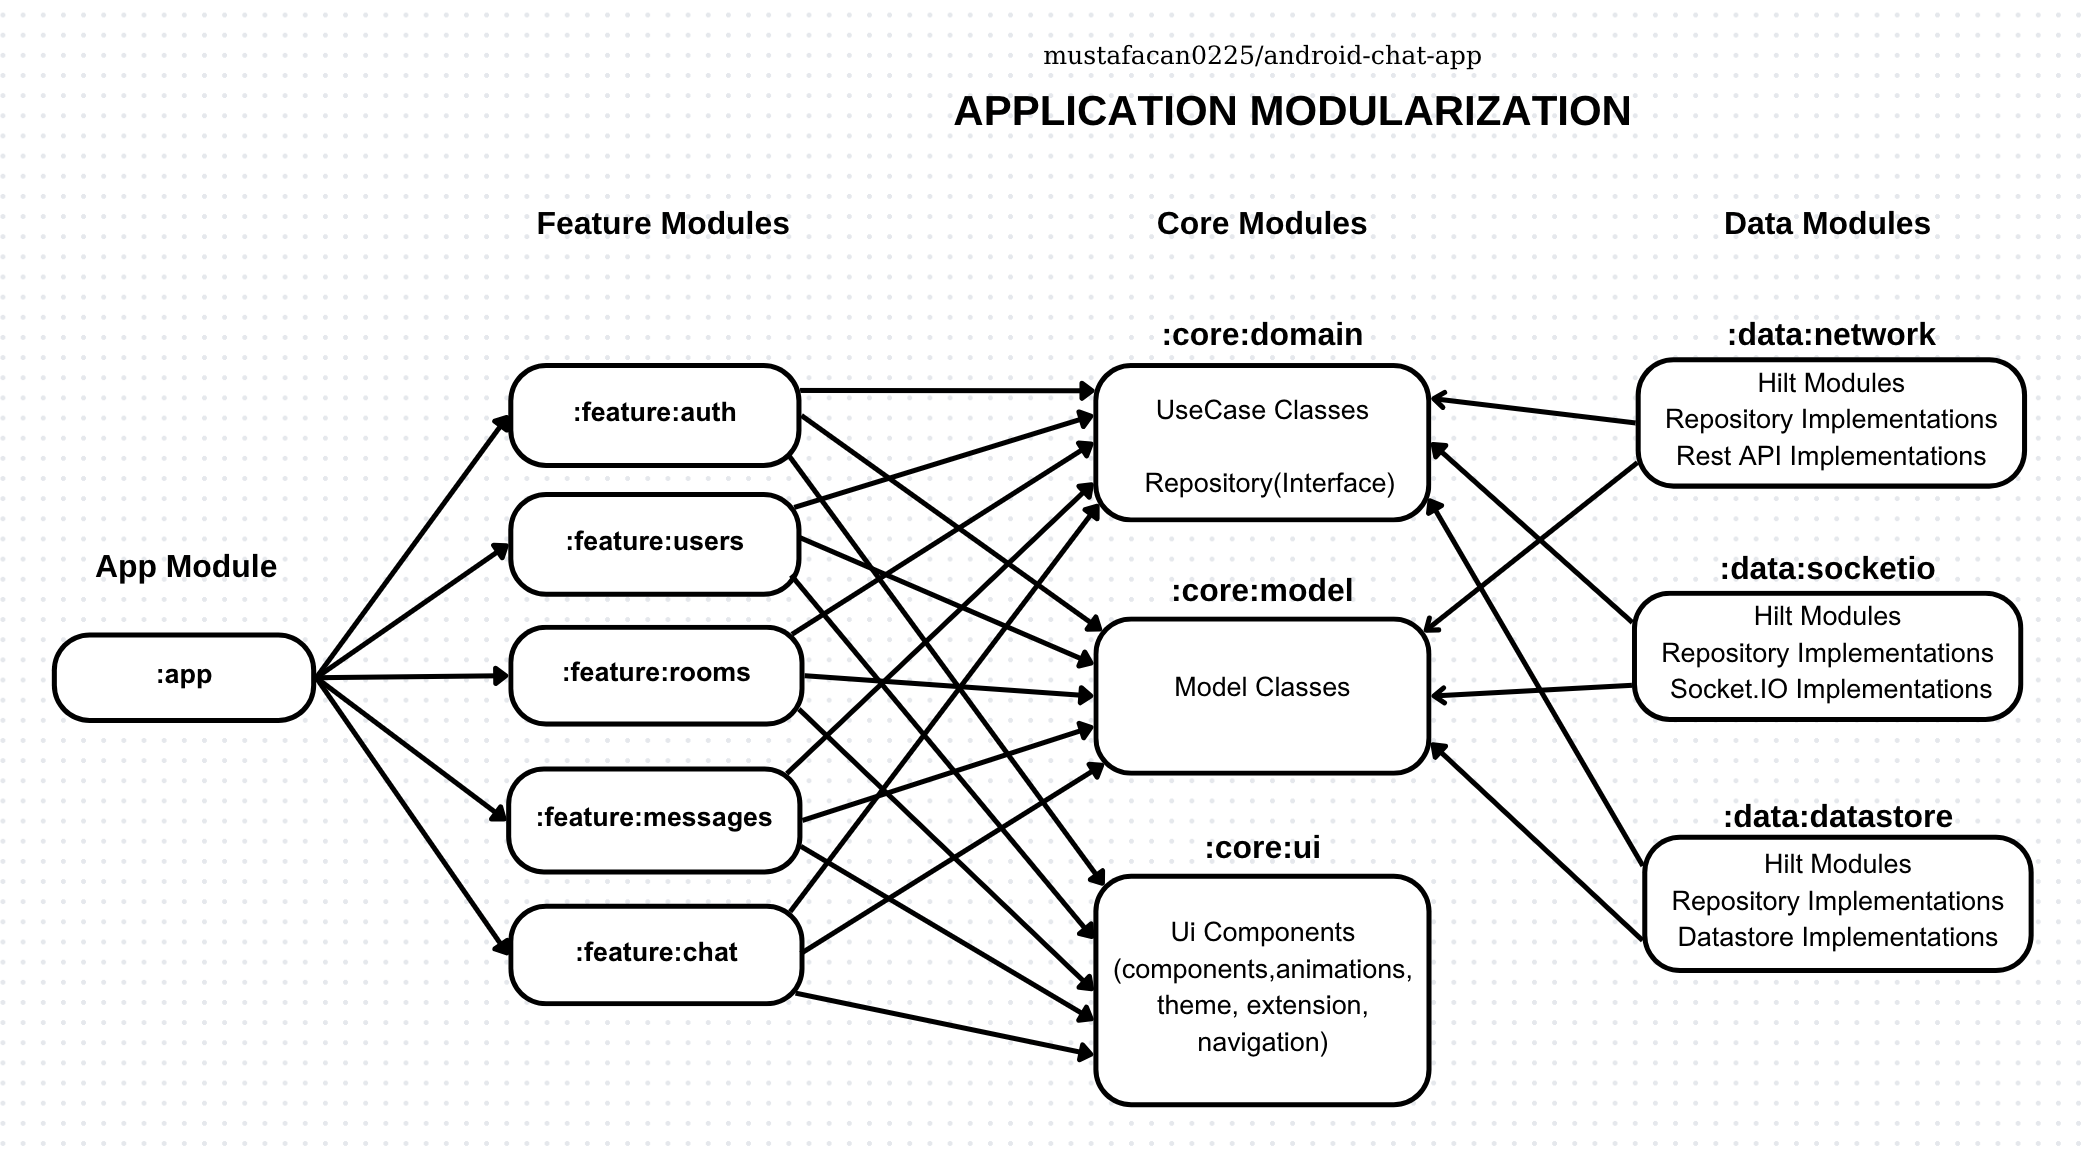
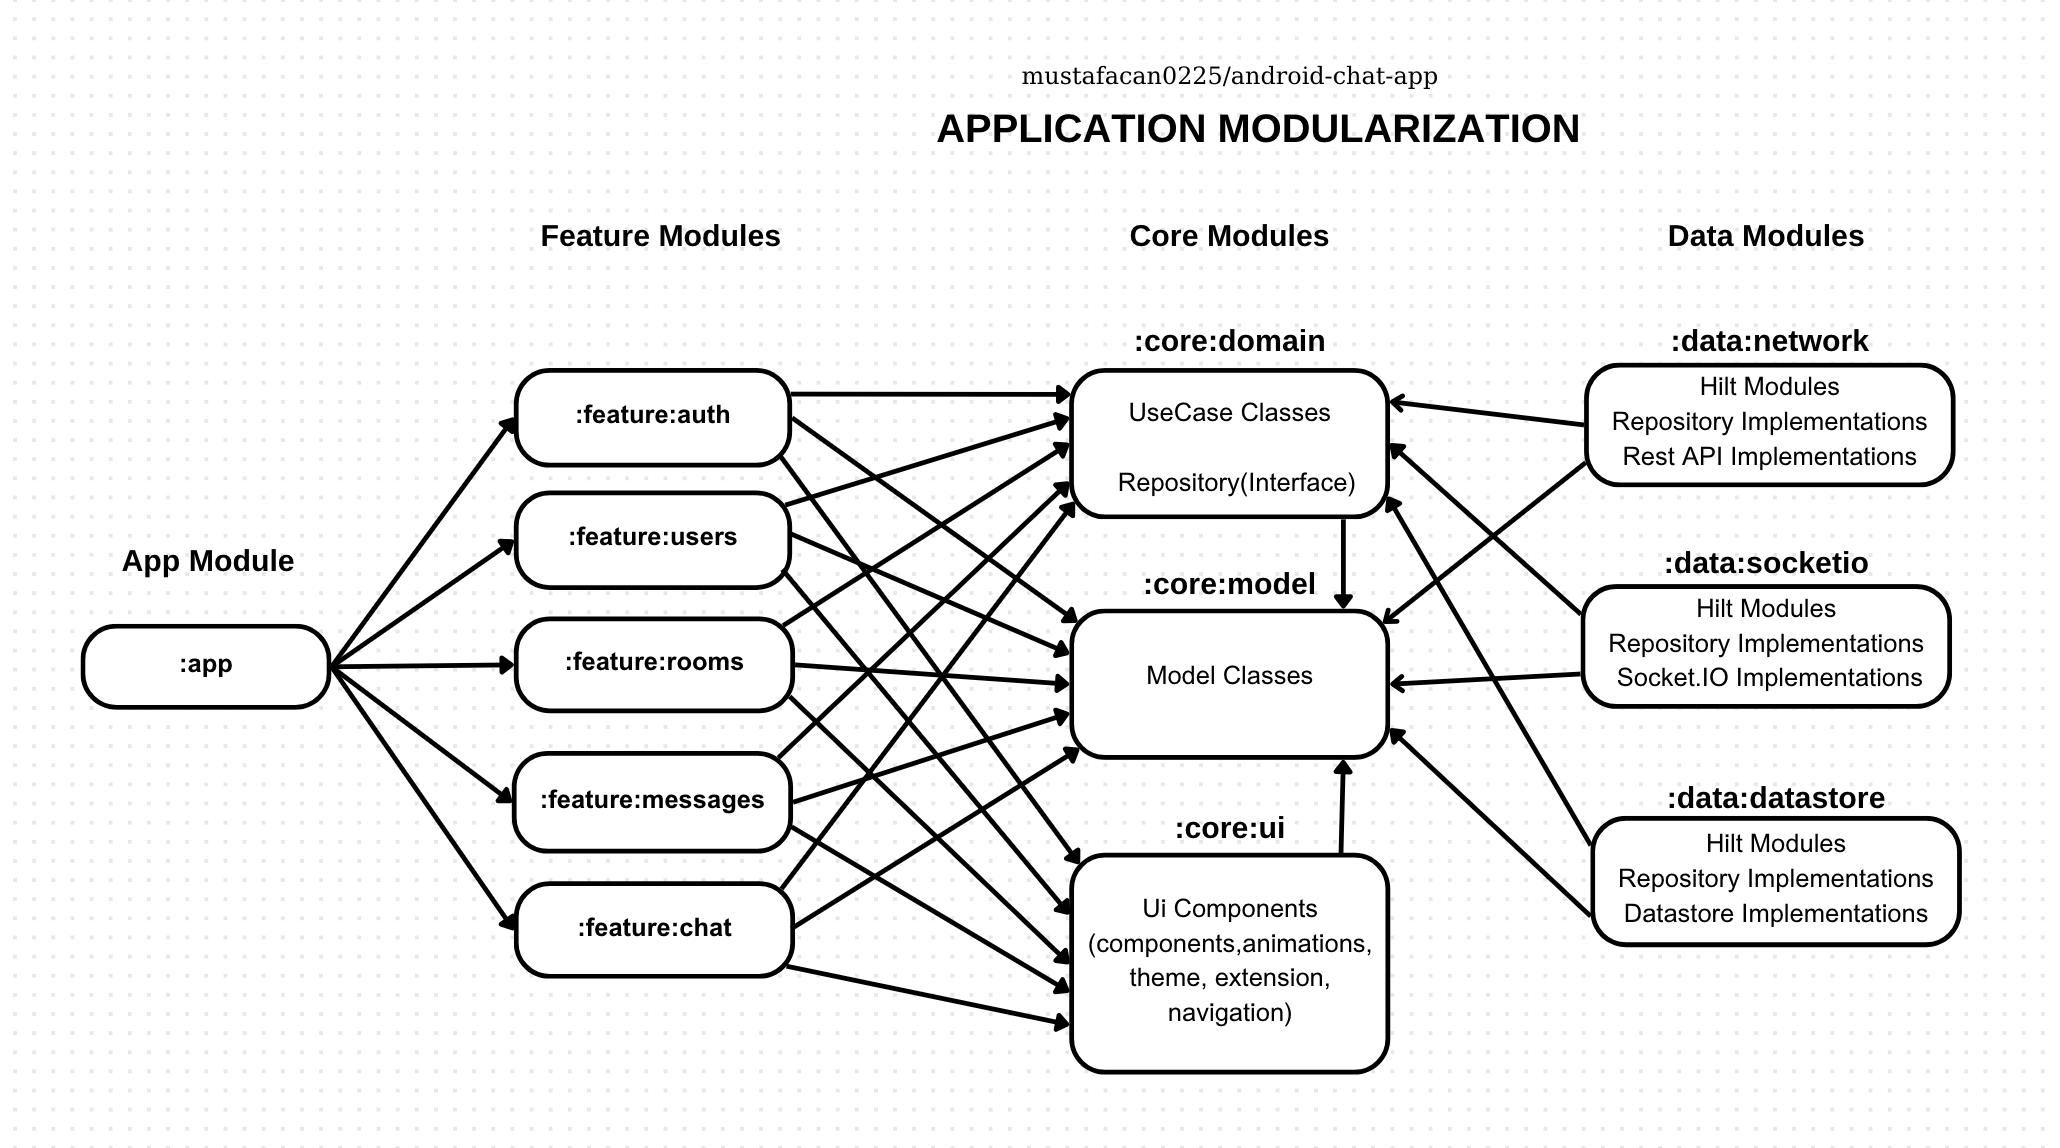
docs: update README.md with local edits and asset paths

diff --git a/README.md b/README.md
@@ -228,7 +228,6 @@ and easy to maintain as the project scales.
 <table align="center">
   <tr>
     <th align="center">build.gradle.kts(:app) – with 🧩 Convention Plugins</th>
-    <th align="center">build.gradle.kts(:feature:rooms) – with 🧩 Convention Plugins</th>
     <th align="center">build.gradle.kts(:feature:messages) – with 🧩 Convention Plugins</th>
   </tr>
   <tr>
@@ -238,18 +237,12 @@ and easy to maintain as the project scales.
     <td align="center"><sub>
       The feature module applies only the necessary convention plugins. Common setup is centralized in build-logic while module-specific dependencies are added locally.
     </sub></td>
-    <td align="center"><sub>
-      Similarly, the messages feature module uses build-logic for shared configuration and applies only its unique settings in the module.
-    </sub></td>
   </tr>
   <tr>
-    <td align="center" width="33%">
+    <td align="center" width="50%">
       <img src="resources/screenshots/screenshot8.png" width="100%"/>
     </td>
-    <td align="center" width="33%">
-      <img src="resources/screenshots/screenshot9.png" width="100%"/>
-    </td>
-    <td align="center" width="33%">
+    <td align="center" width="50%">
       <img src="resources/screenshots/screenshot10.png" width="100%"/>
     </td>
   </tr>
@@ -260,18 +253,98 @@ and easy to maintain as the project scales.
 <table align="center">
   <tr>
     <th align="center">🗂 Modularization Diagram</th>
-    <th align="center">🖥 Android Studio – Module Overview</th>
   </tr>
   <tr>
     <td align="center"><sub>A visual diagram showing the app module, feature modules, data modules, and core modules, along with their inter-dependencies.</sub></td>
+  </tr>
+  <tr>
+    <td align="center" width="100%">
+      <img src="resources/screenshots/screenshot11.png" width="100%"/>
+    </td>
+  </tr>
+</table>
+
+<table align="center">
+  <tr>
+    <th align="center">🖥 Android Studio – Module Overview</th>
+  </tr>
+  <tr>
     <td align="center"><sub>Screenshot from Android Studio displaying all modules in the project</sub></td>
   </tr>
   <tr>
-    <td align="center" width="80%">
-      <img src="resources/screenshots/screenshot11.png" width="100%"/>
-    </td>
-    <td align="center" width="20%">
+    <td align="center" width="100%">
       <img src="resources/screenshots/screenshot12.png" width="100%"/>
     </td>
   </tr>
 </table>
+
+## Architecture Overview
+
+This project follows a **Multi-Module Clean Architecture** combined with **MVI** 
+and **Jetpack Compose**.
+
+- **Feature modules** contain UI (Jetpack Compose) and ViewModels
+- **Domain module (core:domain)** acts as an isolation layer
+- **Data modules** handle external data sources:
+  - :data:network (REST)
+  - :data:socketio (Socket.IO)
+  - :data:datastore (Local storage)
+
+**Feature modules never communicate directly with data modules.**  
+All communication is done via **UseCases and repository interfaces**
+defined in the domain layer.
+
+This structure enforces **dependency inversion** by keeping all abstractions
+inside the domain layer and all implementations inside data modules.
+
+## Feature Layer (UI + ViewModel)
+
+Feature modules are responsible for **UI rendering** and **state management**.
+The UI is built with **Jetpack Compose** and follows an **MVI-based architecture**.
+
+Each screen is backed by a ViewModel that extends a common BaseViewModel and
+defines three core contracts:
+- **UiState** exposed via **StateFlow** to represent the current UI state
+- **UiEvent** to model user-driven interactions such as input and clicks
+- **UiEffect** exposed as a one-time stream for navigation and transient UI actions
+
+User interactions are sent to the ViewModel as UiEvents.
+The ViewModel processes these events, updates the state using a reducer-style
+approach, and emits new UiState values.
+Jetpack Compose observes state changes and automatically recomposes the UI,
+ensuring a **unidirectional data flow** where the UI is a pure function of state.
+
+ViewModels never communicate directly with data sources.
+All business operations are executed via **UseCases from the domain layer**
+
+## Domain Layer (core:domain)
+
+The domain layer represents the **core business logic** of the application and is
+completely independent from framework and data source implementations.
+
+This module contains:
+- **UseCase classes** that define individual business operations
+- **Repository interfaces** that describe data access contracts
+
+UseCases are called from ViewModels and interact only with repository interfaces.
+The domain layer defines **what the application does**, not **how it is done**,
+making it stable and reusable.
+
+The domain module does not depend on feature or data modules.
+It serves as the central abstraction layer that enforces clean boundaries.
+
+## Data Layer (data modules)
+
+Each data module focuses on a specific data source:
+- **data:network** for REST API communication
+- **data:socketio** for real-time socket operations
+- **data:datastore** for local persistence
+
+Data modules implement the repository interfaces defined in the domain layer and
+contain all framework-specific code such as REST communication, Socket.IO
+real-time messaging, serialization, and local storage
+
+Dependencies between domain abstractions and data implementations are wired using
+**Dagger Hilt**.
+This allows the application to follow **dependency inversion**, ensuring that
+high-level business logic remains independent from low-level implementation details.
